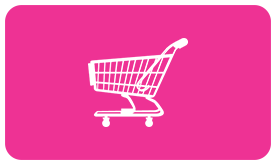
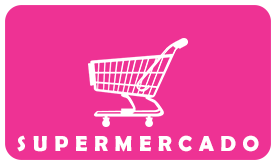
2da prueba tipografia

Changed region(s): [[0.1159, 0.8182, 0.6957, 0.9394], [0.7246, 0.8182, 0.9565, 0.9394], [0.058, 0.8182, 0.087, 0.9394]]

diff --git a/src/pages/home/home.html b/src/pages/home/home.html
@@ -14,8 +14,8 @@
         <img src="assets/imgs/shopping.svg" class="superapp-logo" alt="">
     </div>
     <div class="game-images">
-        <img src="assets/imgs/supermer.jpeg" class="menu_games" alt="" (click)="pushPageMenuGames()">
-        <img src="assets/imgs/palabraa.jpeg" class="list" alt="" (click)="pushPageWordGame()">
+        <img src="assets/imgs/lista.png" class="menu_games" alt="" (click)="pushPageMenuGames()">
+        <img src="assets/imgs/palabras.png" class="list" alt="" (click)="pushPageWordGame()">
     </div>
     
     
